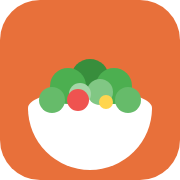
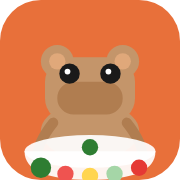
feat: capybara tracks progress bar tip, narrow desktop layout
- Capybara + percentage label now move with the leading edge of the
  calorie progress bar (right: calc(pct% - 24px), animated with 0.7s easing)
- Desktop layout constrained to 480px centered (.page max-width)
- Welcome screen content explicitly centered with margin-inline: auto
- Refreshed apple-touch-icon.png with latest capybara drawing

diff --git a/food-logger/public/index.html b/food-logger/public/index.html
@@ -214,7 +214,6 @@
 .pet--surprised .pet-mouth-grin      { display: none; }
 .pet--surprised .pet-mouth-frown     { display: none; }
 
-#daily-summary-card { position: relative; }
 
 * { box-sizing: border-box; margin: 0; padding: 0; -webkit-tap-highlight-color: transparent; }
 
@@ -306,6 +305,7 @@ body::after {
   padding: 48px 24px 36px;
   min-height: 100dvh;
   justify-content: center;
+  margin-inline: auto;
 }
 .welcome-icon {
   width: 110px;
@@ -1078,7 +1078,7 @@ input::placeholder { color: var(--muted); }
 /* ════════════════════════════════════════
    PAGE CONTENT
 ════════════════════════════════════════ */
-.page { flex: 1; overflow-y: auto; padding: 16px; }
+.page { flex: 1; overflow-y: auto; padding: 16px; max-width: 480px; margin-inline: auto; width: 100%; }
 
 /* ════════════════════════════════════════
    CARDS
@@ -1141,19 +1141,23 @@ input::placeholder { color: var(--muted); }
 }
 .cal-goal-label {
   display: flex;
-  justify-content: space-between;
   font-size: 12px;
   color: var(--text2);
   margin-bottom: 6px;
 }
-.cal-goal-label .cal-goal-pct {
+.cal-goal-pct {
   font-family: 'IBM Plex Mono', monospace;
   font-weight: 600;
-  width: 48px;
+  font-size: 11px;
   text-align: center;
-  flex-shrink: 0;
+  white-space: nowrap;
 }
-.cal-goal-label .cal-goal-pct.over { color: #f87171; }
+.cal-goal-pct.over { color: #f87171; }
+.cal-goal-track-outer {
+  position: relative;
+  padding-top: 68px;
+  overflow: visible;
+}
 .cal-goal-track {
   height: 7px;
   background: var(--surface3);
@@ -2419,12 +2423,15 @@ input::placeholder { color: var(--muted); }
         <div class="cal-goal-bar">
           <div class="cal-goal-label">
             <span id="cal-goal-text">0 / 0 קל'</span>
-            <span class="cal-goal-pct" id="cal-goal-pct">0%</span>
           </div>
-          <div class="cal-goal-track"><div class="cal-goal-fill" id="cal-goal-fill" style="width:0%"></div></div>
+          <div class="cal-goal-track-outer">
+            <div id="pet-diary-wrap" style="position:absolute;bottom:7px;right:-24px;z-index:1;pointer-events:none;display:flex;flex-direction:column;align-items:center;width:48px;transition:right .7s cubic-bezier(.4,0,.2,1)">
+              <span class="cal-goal-pct" id="cal-goal-pct" style="margin-bottom:2px">0%</span>
+            </div>
+            <div class="cal-goal-track"><div class="cal-goal-fill" id="cal-goal-fill" style="width:0%"></div></div>
+          </div>
         </div>
       </div>
-      <div id="pet-diary-wrap" style="position:absolute;bottom:8px;left:18px;z-index:1;pointer-events:none"></div>
     </div>
 
     <div class="card">
@@ -3658,8 +3665,11 @@ function renderDailySummary(entries) {
     pctEl.textContent = `${Math.round(consumed / rec * 100)}%`;
     pctEl.className = 'cal-goal-pct' + (isOver ? ' over' : '');
     const fill = document.getElementById('cal-goal-fill');
-    fill.style.width = `${Math.min(pct, 100)}%`;
+    const visPct = Math.min(Math.round(consumed / rec * 100), 100);
+    fill.style.width = `${visPct}%`;
     fill.className = 'cal-goal-fill' + (isOver ? ' over' : '');
+    const diaryPosEl = document.getElementById('pet-diary-wrap');
+    if (diaryPosEl) diaryPosEl.style.right = `calc(${visPct}% - 24px)`;
     // Add glow milestone animations
     fill.classList.remove('cal-goal-fill--half', 'cal-goal-fill--done');
     void fill.offsetWidth; // force reflow to restart animation if class is re-added
